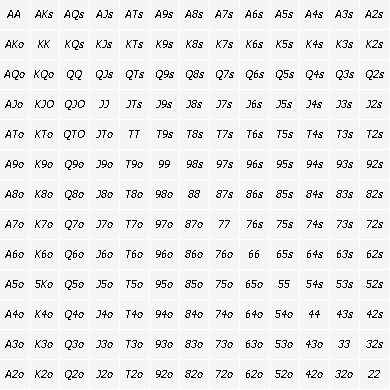
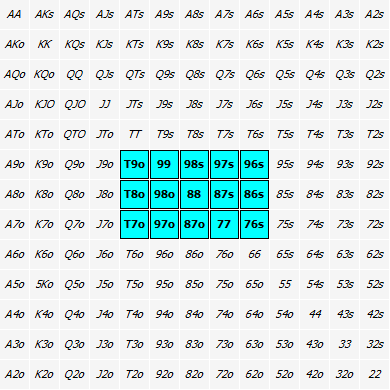
Adding read-only functionality

diff --git a/src/com/arkrud/pokerconsole/UI/Dashboard/DashboardMenu.java b/src/com/arkrud/pokerconsole/UI/Dashboard/DashboardMenu.java
@@ -92,7 +92,8 @@ public class DashboardMenu extends JMenu implements ActionListener {
 			CustomTree customTree = (CustomTree)jScrollPane.getViewport().getView();
 			DefaultMutableTreeNode node = (DefaultMutableTreeNode)customTree.getTreeModel().getRoot();
 			PokerStrategy pokerStrategy = (PokerStrategy)node.getUserObject();
-			generateChartImages(new File(UtilMethodsFactory.getConfigPath() + "Images/" + pokerStrategy.getNodeText()));
+			generateChartImages(new File(UtilMethodsFactory.getConfigPath() + "Images/" + pokerStrategy.getNodeText()), Dashboard.EDITABLE);
+			INIFilesFactory.updateINIFileItems(UtilMethodsFactory.getConsoleConfig(), "data", "false", "editable");
 			showDashboard();
 		} else if (menuText.contains("Load Charts in MongoDB")) {
 			MongoDBFactory.crateMongoConnection();
@@ -116,7 +117,7 @@ public class DashboardMenu extends JMenu implements ActionListener {
 		}
 	}
 
-	private void generateChartImages(File node) {
+	private void generateChartImages(File node, boolean editable) {
 		int level = node.getAbsoluteFile().getPath().split("\\\\").length - UtilMethodsFactory.getConfigPath().split("/").length;
 		System.out.println(node.getAbsoluteFile().getPath());
 		System.out.println(UtilMethodsFactory.getConfigPath());
@@ -126,7 +127,7 @@ public class DashboardMenu extends JMenu implements ActionListener {
 		} else if (level == 3) {
 			if (node.getAbsoluteFile().getPath().split("\\\\")[level + UtilMethodsFactory.getConfigPath().split("/").length / 2].equals("RFI")) {
 				if (!node.getName().contains("ini") && !node.getName().contains("png")) {
-					generateCharts(node);
+					generateCharts(node, editable);
 				}
 			} else {
 			}
@@ -134,14 +135,14 @@ public class DashboardMenu extends JMenu implements ActionListener {
 		} else if (level == 5) {
 			if ( !node.getName().contains("png")) {
 				System.out.println("Here we go");
-				generateCharts(node);
+				generateCharts(node, editable);
 			}
 		} else {
 		}
 		if (node.isDirectory()) {
 			String[] subNote = node.list();
 			for (String filename : subNote) {
-				generateChartImages(new File(node, filename));
+				generateChartImages(new File(node, filename), editable);
 			}
 		}
 	}
@@ -180,7 +181,7 @@ public class DashboardMenu extends JMenu implements ActionListener {
 		}
 	}
 
-	private void generateCharts(File node) {
+	private void generateCharts(File node, boolean editable) {
 		String absolutePath = node.getAbsoluteFile().getPath();
 		String imagePath = absolutePath.substring(absolutePath.indexOf("Images"), absolutePath.length());
 		File iniFile = new File(UtilMethodsFactory.getConfigPath() + imagePath.split("\\.")[0].replaceAll("\\\\", "/") + ".ini");
@@ -192,7 +193,7 @@ public class DashboardMenu extends JMenu implements ActionListener {
 			INIFilesFactory.addINIFileSection(iniFile, "Update", sectionKeys);
 		}*/
 		//if (Boolean.parseBoolean(INIFilesFactory.getItemValueFromINI(iniFile, "Update", "latest"))) {
-			ChartPanel chartPanel = new ChartPanel(imagePath, false);
+			ChartPanel chartPanel = new ChartPanel(imagePath, editable);
 			BaseInternalFrame theFrame = new CustomTableViewInternalFrame(imagePath, chartPanel);
 			JScrollableDesktopPane pane = dash.getJScrollableDesktopPane();
 			UtilMethodsFactory.addInternalFrameToScrolableDesctopPane(imagePath, pane, theFrame);

diff --git a/src/com/arkrud/pokerconsole/TreeInterface/CustomTreePopupHandler.java b/src/com/arkrud/pokerconsole/TreeInterface/CustomTreePopupHandler.java
@@ -157,7 +157,7 @@ public class CustomTreePopupHandler implements ActionListener, PropertyChangeLis
 			} else if (ac.equals("REMOVE")) {
 				String treeName = ((PokerStrategy) node.getUserObject()).getNodeText();
 				String treeTabTitle = dash.getTreeTabbedPane().getTitleAt(dash.getTreeTabbedPane().getSelectedIndex());
-				if (treeTabTitle.contains("-")) {
+				/*if (treeTabTitle.contains("-")) {
 					int response = JOptionPane.showConfirmDialog(null, "Do you want to remove remove this Tree Copy", "Solution Tree Copy removal", JOptionPane.YES_NO_OPTION, JOptionPane.QUESTION_MESSAGE);
 					if (response == JOptionPane.NO_OPTION) {
 					} else if (response == JOptionPane.YES_OPTION) {
@@ -166,7 +166,7 @@ public class CustomTreePopupHandler implements ActionListener, PropertyChangeLis
 						INIFilesFactory.removeINIFileItems(UtilMethodsFactory.getConsoleConfig(), "Applications", trees);
 					} else if (response == JOptionPane.CLOSED_OPTION) {
 					}
-				} else {
+				} else {*/
 					int response = JOptionPane.showConfirmDialog(null, "Do you want to remove remove this Tree And With All Copies", "Solution Tree Complete removal", JOptionPane.YES_NO_OPTION, JOptionPane.QUESTION_MESSAGE);
 					if (response == JOptionPane.NO_OPTION) {
 					} else if (response == JOptionPane.YES_OPTION) {
@@ -187,7 +187,7 @@ public class CustomTreePopupHandler implements ActionListener, PropertyChangeLis
 						UtilMethodsFactory.deleteDirectory(new File(fileSystemPath));
 					} else if (response == JOptionPane.CLOSED_OPTION) {
 					}
-				}
+				//}
 			} else if (ac.equals("DUPLICATE")) {
 				String treeName = ((PokerStrategy) node.getUserObject()).getNodeText();
 				INIFilesFactory.addINIFileItemToSection(UtilMethodsFactory.getConsoleConfig(), "Applications", treeName + "-copy", true);

diff --git a/src/com/arkrud/pokerconsole/UI/Dashboard/Dashboard.java b/src/com/arkrud/pokerconsole/UI/Dashboard/Dashboard.java
@@ -41,6 +41,7 @@ public class Dashboard extends JFrame implements InternalFrameListener, WindowLi
 	private static final long serialVersionUID = 1L;
 	public static Hashtable<String, BaseInternalFrame> INTERNAL_FRAMES = new Hashtable<String, BaseInternalFrame>();
 	public static String CURRENT_TREE_TITLE = "";
+	public static boolean EDITABLE = true;
 	private JMenuBar jJMenuBar = null;
 	private JScrollableDesktopPane jScrollableDesktopPane = null;
 	private CustomTree customTree;
@@ -121,6 +122,7 @@ public class Dashboard extends JFrame implements InternalFrameListener, WindowLi
 	// Initialization of the visual interface
 	private void initialize(boolean editable) throws Exception {
 		// Create dashboard menu items and add menu to dashboard
+		EDITABLE = Boolean.parseBoolean(INIFilesFactory.getItemValueFromINI(UtilMethodsFactory.getConsoleConfig(), "data", "editable")); 
 		jJMenuBar = new JMenuBar();
 		jJMenuBar.add(new DashboardMenu(this, editable));
 		this.setJMenuBar(jJMenuBar);

diff --git a/src/com/arkrud/pokerconsole/TreeInterface/CustomTreeMouseListener.java b/src/com/arkrud/pokerconsole/TreeInterface/CustomTreeMouseListener.java
@@ -128,7 +128,7 @@ public class CustomTreeMouseListener implements MouseListener, PropertyChangeLis
 			Object obj = ((DefaultMutableTreeNode) path.getLastPathComponent()).getUserObject();
 			if (path != null && !theTree.getTreeType().equals("config")) {
 				if (((DefaultMutableTreeNode) path.getLastPathComponent()).isLeaf()) {
-					ChartPanel chartPanel = new ChartPanel(((PokerOpponentPosition) obj).getChartImagePath(), true);
+					ChartPanel chartPanel = new ChartPanel(((PokerOpponentPosition) obj).getChartImagePath(), Dashboard.EDITABLE);
 					dash.getJScrollableDesktopPane().getDesktopMediator().closeAllFrames();
 					BaseInternalFrame theFrame = new CustomTableViewInternalFrame(((PokerOpponentPosition) obj).getChartPaneTitle(), chartPanel);
 					UtilMethodsFactory.addInternalFrameToScrolableDesctopPane(((PokerOpponentPosition) obj).getChartPaneTitle(), pane, theFrame);

diff --git a/src/com/arkrud/pokerconsole/Util/UtilMethodsFactory.java b/src/com/arkrud/pokerconsole/Util/UtilMethodsFactory.java
@@ -96,6 +96,7 @@ public class UtilMethodsFactory {
 			String[] items = {Dashboard.CURRENT_TREE_TITLE + "opened"};
 			INIFilesFactory.removeINIFileItems(UtilMethodsFactory.getConsoleConfig(), "Applications", items);
 		}
+		INIFilesFactory.updateINIFileItems(UtilMethodsFactory.getConsoleConfig(), "data", "true", "editable");
 		System.exit(0);
 	}
 
